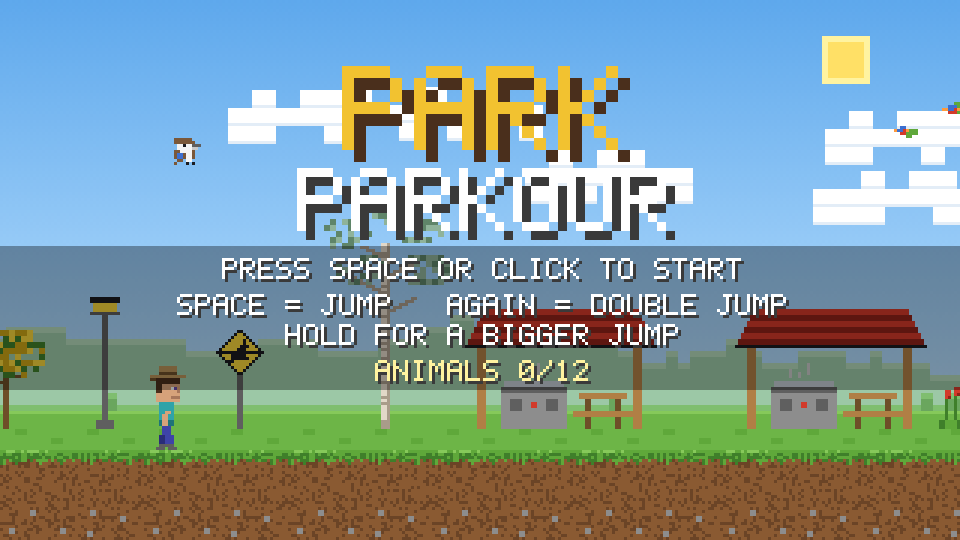
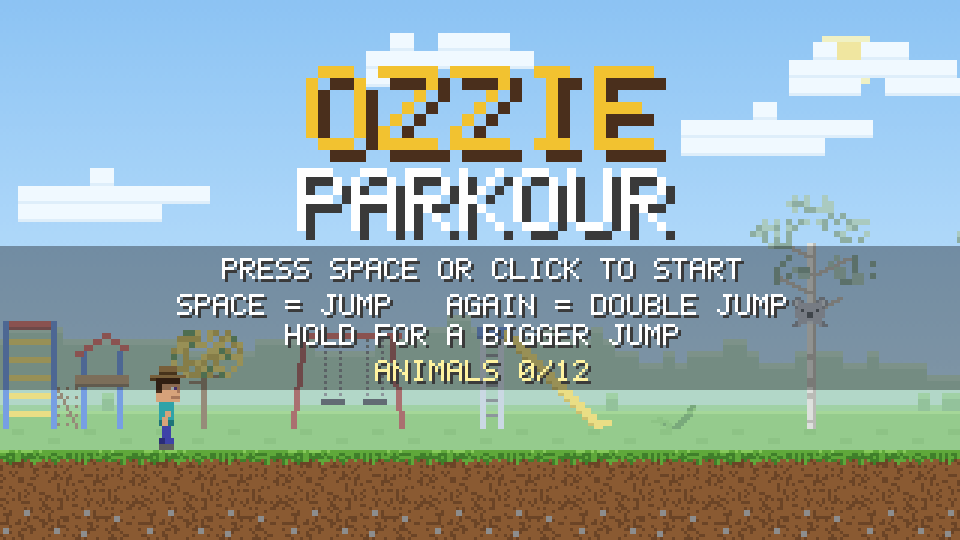
Rename Park Parkour to Ozzie Parkour (title, hub card, manifest, cover)
Claude-Session: https://claude.ai/code/session_01339FrAtv3k5QTverVPGz4i

diff --git a/park-parkour/index.html b/park-parkour/index.html
@@ -3,18 +3,18 @@
 <head>
 <meta charset="UTF-8">
 <meta name="viewport" content="width=device-width, initial-scale=1, viewport-fit=cover, user-scalable=no">
-<title>Park Parkour</title>
+<title>Ozzie Parkour</title>
 <link rel="manifest" href="manifest.webmanifest">
 <meta name="mobile-web-app-capable" content="yes">
 <meta name="apple-mobile-web-app-capable" content="yes">
 <meta name="apple-mobile-web-app-status-bar-style" content="black">
-<meta name="apple-mobile-web-app-title" content="Park Parkour">
+<meta name="apple-mobile-web-app-title" content="Ozzie Parkour">
 <meta name="theme-color" content="#5fa83a">
 <link rel="apple-touch-icon" href="icon-180.png">
 <link rel="icon" href="icon-192.png">
 <meta name="description" content="A blocky pixel runner through an Aussie park: jump benches, bins and bushes, grab gold blocks and spot kangaroos, koalas and kookaburras.">
 <meta property="og:type" content="website">
-<meta property="og:title" content="PARK PARKOUR">
+<meta property="og:title" content="OZZIE PARKOUR">
 <meta property="og:description" content="A blocky pixel runner through an Aussie park: jump benches, bins and bushes, grab gold blocks and spot kangaroos, koalas and kookaburras.">
 <meta property="og:url" content="https://pedrotung.github.io/EmilyGames/park-parkour/">
 <meta property="og:image" content="https://pedrotung.github.io/EmilyGames/park-parkour/cover.png">
@@ -67,7 +67,7 @@
 </div>
 </div>
 <div id="fsHelp" class="hidden"><div>
-  <b>Play full screen on iPhone:</b><br>tap the Share button in Safari, then <b>Add to Home Screen</b>, and open Park Parkour from your home screen.<br><br>
+  <b>Play full screen on iPhone:</b><br>tap the Share button in Safari, then <b>Add to Home Screen</b>, and open Ozzie Parkour from your home screen.<br><br>
   <b>Android (Chrome):</b> tap the &#8942; menu, then <b>Add to Home screen</b>.<br>
   <b>In an app (WeChat and others):</b> open this page in your phone's browser first.<br>
   <button class="mc" id="fsHelpClose">OK</button></div></div>
@@ -75,7 +75,7 @@
 <script>
 'use strict';
 /* =====================================================================
-   PARK PARKOUR - a blocky pixel runner through an Aussie community park.
+   OZZIE PARKOUR - a blocky pixel runner through an Aussie community park.
    Everything is drawn with canvas code. The canvas is only 180 pixels tall
    and is scaled up with smoothing off, so every pixel is a hard square block.
    ===================================================================== */
@@ -1113,7 +1113,7 @@ function drawHud() {
   const touch = isTouch;
   if (state === 'title') {
     ctx.globalAlpha = 0.35; px(ctx, '#000000', 0, 82, W, 48); ctx.globalAlpha = 1;   // dark band so the help text reads over the park
-    drawText(ctx, 'PARK', W / 2, 22, '#f2c230', 4, 'center', '#4a2f1c');
+    drawText(ctx, 'OZZIE', W / 2, 22, '#f2c230', 4, 'center', '#4a2f1c');
     drawText(ctx, 'PARKOUR', W / 2, 56, '#ffffff', 3, 'center', '#3a3a3a');
     if (Math.floor(performance.now() / 500) % 2) drawText(ctx, touch ? 'TAP THE SCREEN TO START' : 'PRESS SPACE OR CLICK TO START', W / 2, 86, '#ffffff', 1, 'center');
     drawText(ctx, touch ? 'TAP = JUMP   TAP AGAIN = DOUBLE JUMP' : 'SPACE = JUMP   AGAIN = DOUBLE JUMP', W / 2, 98, '#ffffff', 1, 'center');
@@ -1285,7 +1285,7 @@ function showEnd(on) {
   if (on && window.EmilyShare) {
     // a sharp, bigger copy of the screen for the share picture
     const k = 4, [big, bx] = makeCanvas(W * k, H * k); bx.drawImage(cv, 0, 0, W * k, H * k);
-    EmilyShare.snap({ canvas: big, game: 'Park Parkour', text: `I ran ${metres()} m and scored ${G.score} in Park Parkour!`, path: 'park-parkour/' });
+    EmilyShare.snap({ canvas: big, game: 'Ozzie Parkour', text: `I ran ${metres()} m and scored ${G.score} in Ozzie Parkour!`, path: 'park-parkour/' });
   }
   document.getElementById('shareBtn').classList.toggle('hidden', !window.EmilyShare);
 }

diff --git a/index.html b/index.html
@@ -142,8 +142,8 @@
       <span class="play">Play →</span>
     </a>
     <a class="game" href="park-parkour/index.html">
-      <img class="thumb" src="park-parkour/cover.png" width="960" height="540" alt="PARK PARKOUR cover: a blocky pixel runner in a bush hat in an Aussie park with gum trees and a BBQ shelter" style="height: auto; border: 1px solid var(--line); image-rendering: pixelated;">
-      <h2>PARK PARKOUR</h2>
+      <img class="thumb" src="park-parkour/cover.png" width="960" height="540" alt="OZZIE PARKOUR cover: a blocky pixel runner in a bush hat in an Aussie park with gum trees and a BBQ shelter" style="height: auto; border: 1px solid var(--line); image-rendering: pixelated;">
+      <h2>OZZIE PARKOUR</h2>
       <p>A blocky pixel runner through an Aussie park. Jump benches, bins and wombats, grab gold blocks and kangaroo paws, and spot all 12 animals.</p>
       <span class="play">Play →</span>
     </a>
